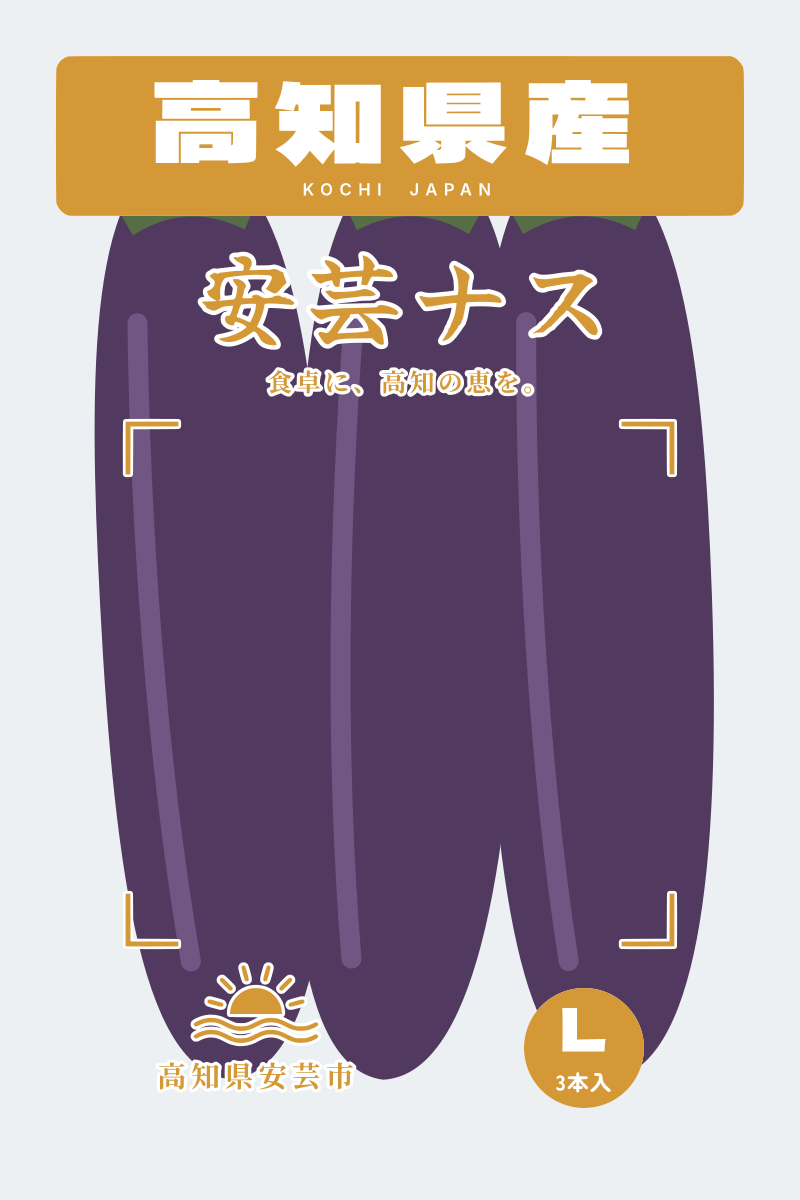
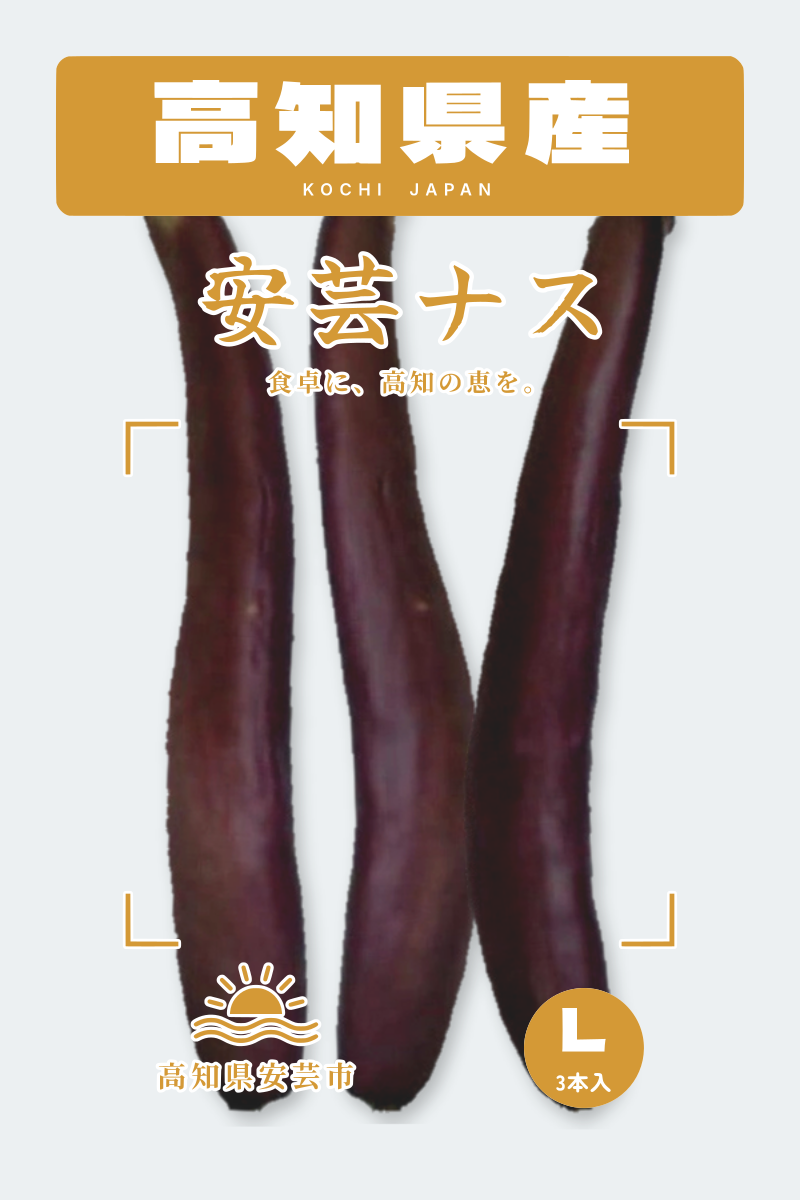
見え方確認用に本物のナスの写真（Fruits-360, CC BY-SA 4.0）を入れた
Claude-Session: https://claude.ai/code/session_01A2BRWsuCnfb7LCPKAzreFo

diff --git a/nasu-film/フィルム配置アプリ/index.html b/nasu-film/フィルム配置アプリ/index.html
@@ -103,6 +103,7 @@ textarea{width:100%;min-height:80px;font:12px ui-monospace,monospace;background:
         <g id="selLayer"></g>
       </svg>
       <div class="row" style="margin-top:6px">
+        <span class="sub" id="photoCredit" hidden>ナスの写真：Fruits-360（Mihai Oltean, CC BY-SA 4.0）を切り抜いて使用。確認用で印刷されません。</span>
         <span class="sub">つかんで移動 ／ 右下の●で拡大縮小 ／ 上の●で回転 ／ <span class="kbd">←↑→↓</span> 0.5mm（<span class="kbd">Shift</span>で5mm）</span>
       </div>
     </div>
@@ -195,7 +196,7 @@ let DID='d', KEY=DESIGNS.d.key;
 const SRC_IMG={x:26.5,y:5.2,w:1014*0.14,h:2000*0.14};   // 元画像の位置（mm）
 const SWATCHES=[['金（見本）','#d49936'],['濃い金','#b8873a'],['紫','#6b2c91'],['緑','#2e7d4f'],['赤','#c0392b'],['紺','#1f3a6e']];
 let PARTS=[], BASE=null, S=null, SEL=null, hist=[], fut=[], bgMode=0, refOn=false;
-const BG_NAMES=['白','濃い紫','ナスを入れて見る（印刷されません）'];
+const BG_NAMES=['白','濃い紫','ナスの写真を入れて見る（印刷されません）'];
 
 function toast(m){ const t=$('toast'); t.textContent=m; t.classList.add('show'); clearTimeout(toast.t); toast.t=setTimeout(()=>t.classList.remove('show'),2200); }
 const clone=o=>JSON.parse(JSON.stringify(o));
@@ -235,17 +236,12 @@ function drawFrame(){
   el('text',{x:W-37,y:H+9.5,'font-size':3.2,'text-anchor':'middle',fill:'var(--fg)','font-family':'var(--ui)'},R).textContent='50 mm';
   $('filmInfo').textContent=`フィルム ${W} × ${H} mm（1目盛り 5mm）`;
 }
-// 見え方の確認用：袋に入ったナス3本（印刷も書き出しもされない）
+// 見え方の確認用：袋に入ったナス3本の写真（印刷も書き出しもされない）
+// 写真：Fruits-360（Mihai Oltean, CC BY-SA 4.0）の eggplant_long_1 を切り抜き・色調整・並べ替え
 function drawEggs(W,H){
-  const E=$('eggs'); E.innerHTML=''; if(bgMode!==2) return;
-  const k=Math.min(W/200,H/300), L=H*0.78/232;
-  [[W*0.26,-3],[W*0.5,2],[W*0.74,-2]].forEach(([x,r])=>{
-    const g=el('g',{transform:`translate(${x} ${H*0.52}) rotate(${r}) scale(${k*1.0} ${L})`},E);
-    el('path',{d:'M0 -112 C26 -110 30 -60 30 0 C30 70 22 118 0 120 C-22 118 -27 70 -27 0 C-27 -60 -24 -110 0 -112Z',fill:'#3a1f4a'},g);
-    el('path',{d:'M-14 -70 C-16 -20 -15 40 -9 90',stroke:'#7a5a92','stroke-width':5,fill:'none',opacity:.55,'stroke-linecap':'round'},g);
-    el('path',{d:'M-20 -104 Q0 -128 20 -104 L14 -92 Q0 -100 -14 -92Z',fill:'#3f5a2c'},g);
-  });
-  el('rect',{width:W,height:H,fill:'#fff',opacity:.1},E);
+  const E=$('eggs'); E.innerHTML=''; $('photoCredit').hidden=bgMode!==2; if(bgMode!==2) return;
+  el('image',{href:'nasu3.png',x:(W-200)/2,y:(H-300)/2,width:200,height:300,preserveAspectRatio:'xMidYMid meet'},E);
+  el('rect',{width:W,height:H,fill:'#fff',opacity:.08},E);
 }
 function tf(it){ return `translate(${it.x} ${it.y}) rotate(${it.r}) scale(${it.s/100})`; }
 function drawArt(){

diff --git a/nasu-film/フィルム配置アプリ/make_nasu3.py b/nasu-film/フィルム配置アプリ/make_nasu3.py
@@ -1,0 +1,24 @@
+import sys, numpy as np
+from PIL import Image, ImageFilter, ImageEnhance
+from scipy import ndimage as ndi
+D=sys.argv[1]; OUT=sys.argv[2]
+PX=3   # px/mm
+def cut(fn):
+    im=Image.open(f'{D}/{fn}').convert('RGB'); a=np.asarray(im).astype(int)
+    fg=a.min(axis=2)<228
+    fg=ndi.binary_opening(fg,iterations=1); lab,n=ndi.label(fg); sizes=ndi.sum(fg,lab,range(1,n+1)); fg=lab==(1+int(np.argmax(sizes)))
+    fg=ndi.binary_fill_holes(fg); fg=ndi.binary_erosion(fg,iterations=1)
+    al=Image.fromarray((fg*255).astype('uint8')).filter(ImageFilter.GaussianBlur(0.8))
+    im=ImageEnhance.Color(ImageEnhance.Contrast(im).enhance(1.15)).enhance(1.12)
+    rgba=im.copy(); rgba.putalpha(al); return rgba.crop(rgba.getbbox())
+picks=[('r0_62.jpg',-3,False),('r0_26.jpg',2,True),('r0_296.jpg',4,False)]
+canvas=Image.new('RGBA',(200*PX,300*PX),(0,0,0,0))
+for (fn,rot,flip),cx in zip(picks,(56,100,144)):
+    e=cut(fn)
+    if flip: e=e.transpose(Image.FLIP_LEFT_RIGHT)
+    k=248*PX/e.height; e=e.resize((round(e.width*k),round(e.height*k)),Image.LANCZOS).rotate(rot,resample=Image.BICUBIC,expand=True)
+    # やわらかい影
+    sh=Image.new('RGBA',e.size,(0,0,0,0)); sh.putalpha(e.getchannel('A').point(lambda v:int(v*0.28)).filter(ImageFilter.GaussianBlur(6)))
+    x=cx*PX-e.width//2; y=round(150*PX-e.height/2)+4*PX
+    canvas.alpha_composite(sh,(x+5,y+7)); canvas.alpha_composite(e,(x,y))
+canvas.save(OUT,optimize=True); print(canvas.size)

diff --git a/nasu-film/フィルム配置アプリ/README.md b/nasu-film/フィルム配置アプリ/README.md
@@ -24,3 +24,10 @@
 - 大きさは 200mm × 300mm の実寸です。
 - 文字はすべて線のデータに変換済みです（アウトライン化）。
 - グループは「白版」「2色目の版」「ガイド_印刷しない」の3つです。
+
+## 見え方確認用のナスの写真（印刷されません）
+- `nasu3.png` は、ナス3本が袋に入ったときの見え方を確かめるための画像です。印刷にも、SVG・PNGの書き出しにも入りません。
+- 元の写真は Fruits-360 データセット（Mihai Oltean, 2017-）の `Training/eggplant_long_1` から3枚使いました。https://github.com/fruits-360/fruits-360-original-size
+- 元の写真のライセンスは CC BY-SA 4.0 です（https://creativecommons.org/licenses/by-sa/4.0/）。
+- 加えた変更：白い背景を切り抜き、コントラストと色味を少し上げ、大きさ・向き・並びを整え、影を付けました（`make_nasu3.py`）。
+- `nasu3.png` も同じ CC BY-SA 4.0 で扱います。
